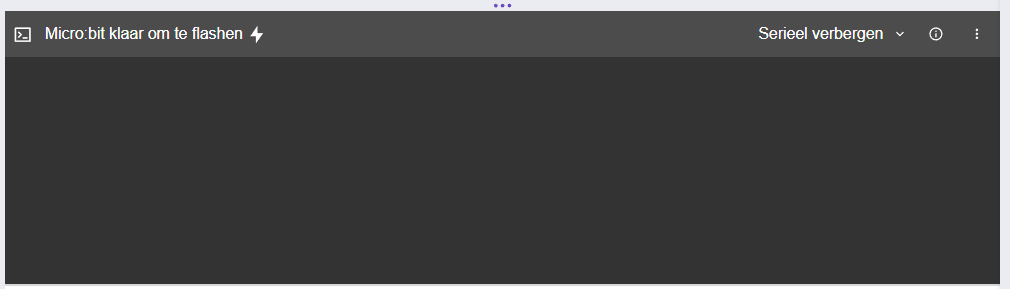
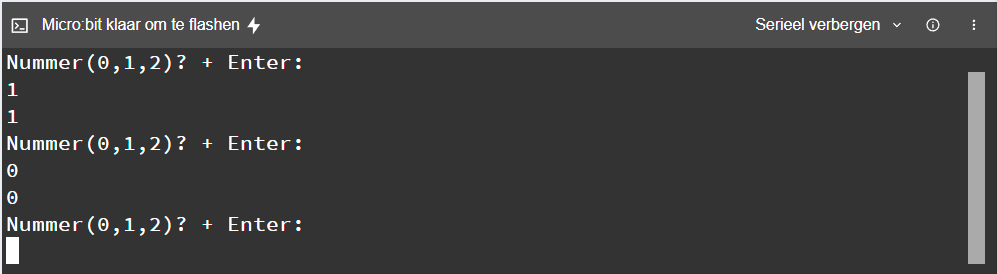
Python8

diff --git a/src/guide/ai_2.md b/src/guide/ai_2.md
@@ -320,18 +320,18 @@ We bemerken, hier in dit voorbeeld, dat er 3 klasses zijn. De klasse met de hoog
 
 ## Python script met micro:bit
 
-Eenmaal vorige werkt, kunnen we vanuit het python script na de predict, het resultaat doorsturen naar de micro:bit. Dit doen we door een uniek character door te sturen op basis van het predict resultaat van het NN. Afhankelijk van het aantal klasses doen we dit hier met een '0' of '1' of '2' door te sturen naar de micro:bit. Dit doen we via een serieële verbinding via de USB kabel waarmee de micro:bit is verbonden met de computer waarop het NN draait. 
+Eenmaal vorige werkt, kunnen we vanuit het python script na de predict, het resultaat doorsturen naar de micro:bit. Dit doen we door een uniek karakter door te sturen op basis van het predict resultaat van het NN. Afhankelijk van het aantal klasses doen we dit hier met een '0' of '1' of '2' door te sturen naar de micro:bit. Dit doen we via een serieële verbinding via de USB kabel waarmee de micro:bit is verbonden met de computer waarop het NN draait. 
 
 :::tip
-Om dit te kunnen doen moeten we de **COM-poort nummer** kennen waarmee de micro:bit is verbonden met de computer. Dit kan telkens anders zijn!!
+Om dit te kunnen doen moeten we de **COM-poort nummer** kennen waarmee de Micro:Bit is verbonden met de computer. Dit kan telkens anders zijn!!
 Dit kan je controleren via het Configuratie scherm van de computer. (Hardware en geluiden => Apparaatbeheer => Poorten (COM&LPT)).
 :::
 
-In volgend voorbeelden is de micro:bit verbonden via COM5.
+In volgend voorbeelden is de Micro:Bit verbonden via COM5.
 
 ### Micro:Bit code
 
-Natuurlijk moet er dan nog op de micro:bit ook code draaien die deze characters kan binnenlezen en op basis daarvan worden specifieke LED's op de ledmatrix van de Micro:Bit aangestuurd. (theorie en praktijk omtrent de Micro:Bit, zie gedeelte micro:bit).
+Natuurlijk moet er dan nog op de Micro:Bit ook code draaien die deze karakters kan binnenlezen en op basis daarvan worden specifieke LED's op de ledmatrix van de Micro:Bit aangestuurd. (theorie en praktijk omtrent de Micro:Bit, zie gedeelte micro:bit).
 
 De Micro:Bit code ziet er zo uit:
 
@@ -340,23 +340,24 @@ De Micro:Bit code ziet er zo uit:
 from microbit import *
 
 while True:     #oneindige loop maken
-    name = input()  #een binnengekomen character, via de USB-kabel, opslaan in variabele name
+    print('Nummer(0,1,2)? + Enter:')
+    name = input()  #een binnengekomen karakter, via de USB-kabel, opslaan in variabele name
                     #variabele name is van het type char
     if name == '0': #is binnengekomen char een 0?
         display.clear() #ja, dan clear alle leds
-        display.set_pixel(0,0,9)    #en activeer led met coördinaat X=0 en Y=0
+        display.show(0) #toon 0 op Ledmatrix
         
     if name == '1': #is binnengekomen char een 1?
         display.clear()#ja, dan clear alle leds
-        display.set_pixel(1,0,9)    #en activeer led met coördinaat X=1 en Y=0
+        display.show(1) #toon 1 op Ledmatrix
         
     if name == '2': #is binnengekomen char een 2?
         display.clear() #ja, dan clear alle leds
-        display.set_pixel(2,0,9)    #en activeer led met coördinaat X=2 en Y=0
+        display.show(2) #toon 2 op Ledmatrix
         
 ```
 
-Om vorige code beter te begrijpen kunnen we binnen de Micro:Bit Python programmeeromgeving dit al eens testen. Binnen die programmeeromgeving zit namelijk een terminal programma. Dit is eigenlijk een programma die op de laptop draait en kan communiceren via COM-poorten (bidirectioneel). Eenmaal de vorige code gedownload is in de Micro:Bit (dan voert deze het programma onmiddelijk uit), staat de Micro:Bit te wachten tot er een character via de USB kabel binnenkomt. 
+Om vorige code beter te begrijpen kunnen we binnen de Micro:Bit Python programmeeromgeving dit al eens testen. Binnen die programmeeromgeving zit namelijk een terminal programma. Dit is eigenlijk een programma die op de laptop draait en kan communiceren via COM-poorten (bidirectioneel). Eenmaal de vorige code gedownload is in de Micro:Bit (dan voert deze het programma onmiddelijk uit), staat de Micro:Bit te wachten tot er een karakter via de USB kabel binnenkomt. 
 
 Open dan het terminal venster :
 
@@ -365,7 +366,7 @@ Open dan het terminal venster :
 Klik nu in het zwarte kader en geef een getal (0, 1 of 2) in via het toetsenbord. Er gebeurt niets tot je op ENTER drukt. Dan zal de respectievelijke LED oplichten. 
 
 :::tip
-Er moet dus een ENTER volgen op een doorgestuurd character!!!
+Er moet dus een ENTER volgen op een doorgestuurd karakter!!!
 :::
 
 Nu zal dit getal moeten afkomstig zijn van het NN (predicted_class) via een Spyder python script.
@@ -383,7 +384,7 @@ ser=serial.Serial('COM5',baudrate=115200) #instellingen voor de communicatie met
 
 ser.write(bytearray('0\r\n','ascii')) #stuur een 0 naar de Micro:Bit
 
-ser.close()
+ser.close() #Sluiten van de seriële poort!!!
 
 ```
 :::tip

diff --git a/src/guide/microbit.md b/src/guide/microbit.md
@@ -74,8 +74,8 @@ Binnen een programmeertaal zijn een aantal zaken belangrijk en keren steeds teru
         <li>Getallen zonder komma: integer</li>
         <li>Getallen met komma: float</li>
         <li>Boolean: variabele die maar twee waarden kan bevatten: 1/0 of True/False </li>
-        <li>String: variabele die tekst kan bevatten (groepering van characters) </li>
-        <li>char: variabele die maar 1 character/symbool kan bevatten </li>
+        <li>String: variabele die tekst kan bevatten (groepering van karakters) </li>
+        <li>char: variabele die maar 1 karakter/symbool kan bevatten </li>
     </ul>
   </li>
   <li>Iteraties: herhalingen:
@@ -1281,9 +1281,9 @@ pin0.set_analog_period(20)
 while True: 
 	pin0.write_analog(75)
 	sleep(1000)
-	pin0.write_analog(25)
+	pin0.write_analog(30)
 	sleep(1000)
-	pin0.write_analog(125)
+	pin0.write_analog(120)
 	sleep(1000)
 
 ```
@@ -1293,6 +1293,10 @@ while True:
 <p style="color:lightgreen; margin:10px">Opdracht: Koppel extern een servomotor op een pin van de micro:bit. Regel de positie van de servomotor via een PWM signaal door de waarde van een aangesloten potentiometer in te lezen. Visualiseer met een oscilloscoop het signaal.
 </p>
 </div>
+
+:::warning
+Let op bij vorige oefening. De servo motoren zijn geen precisie motoren. Er kan dus wat gespeeld worden met de extrema waarden!!
+:::
 
 
 <hr>
